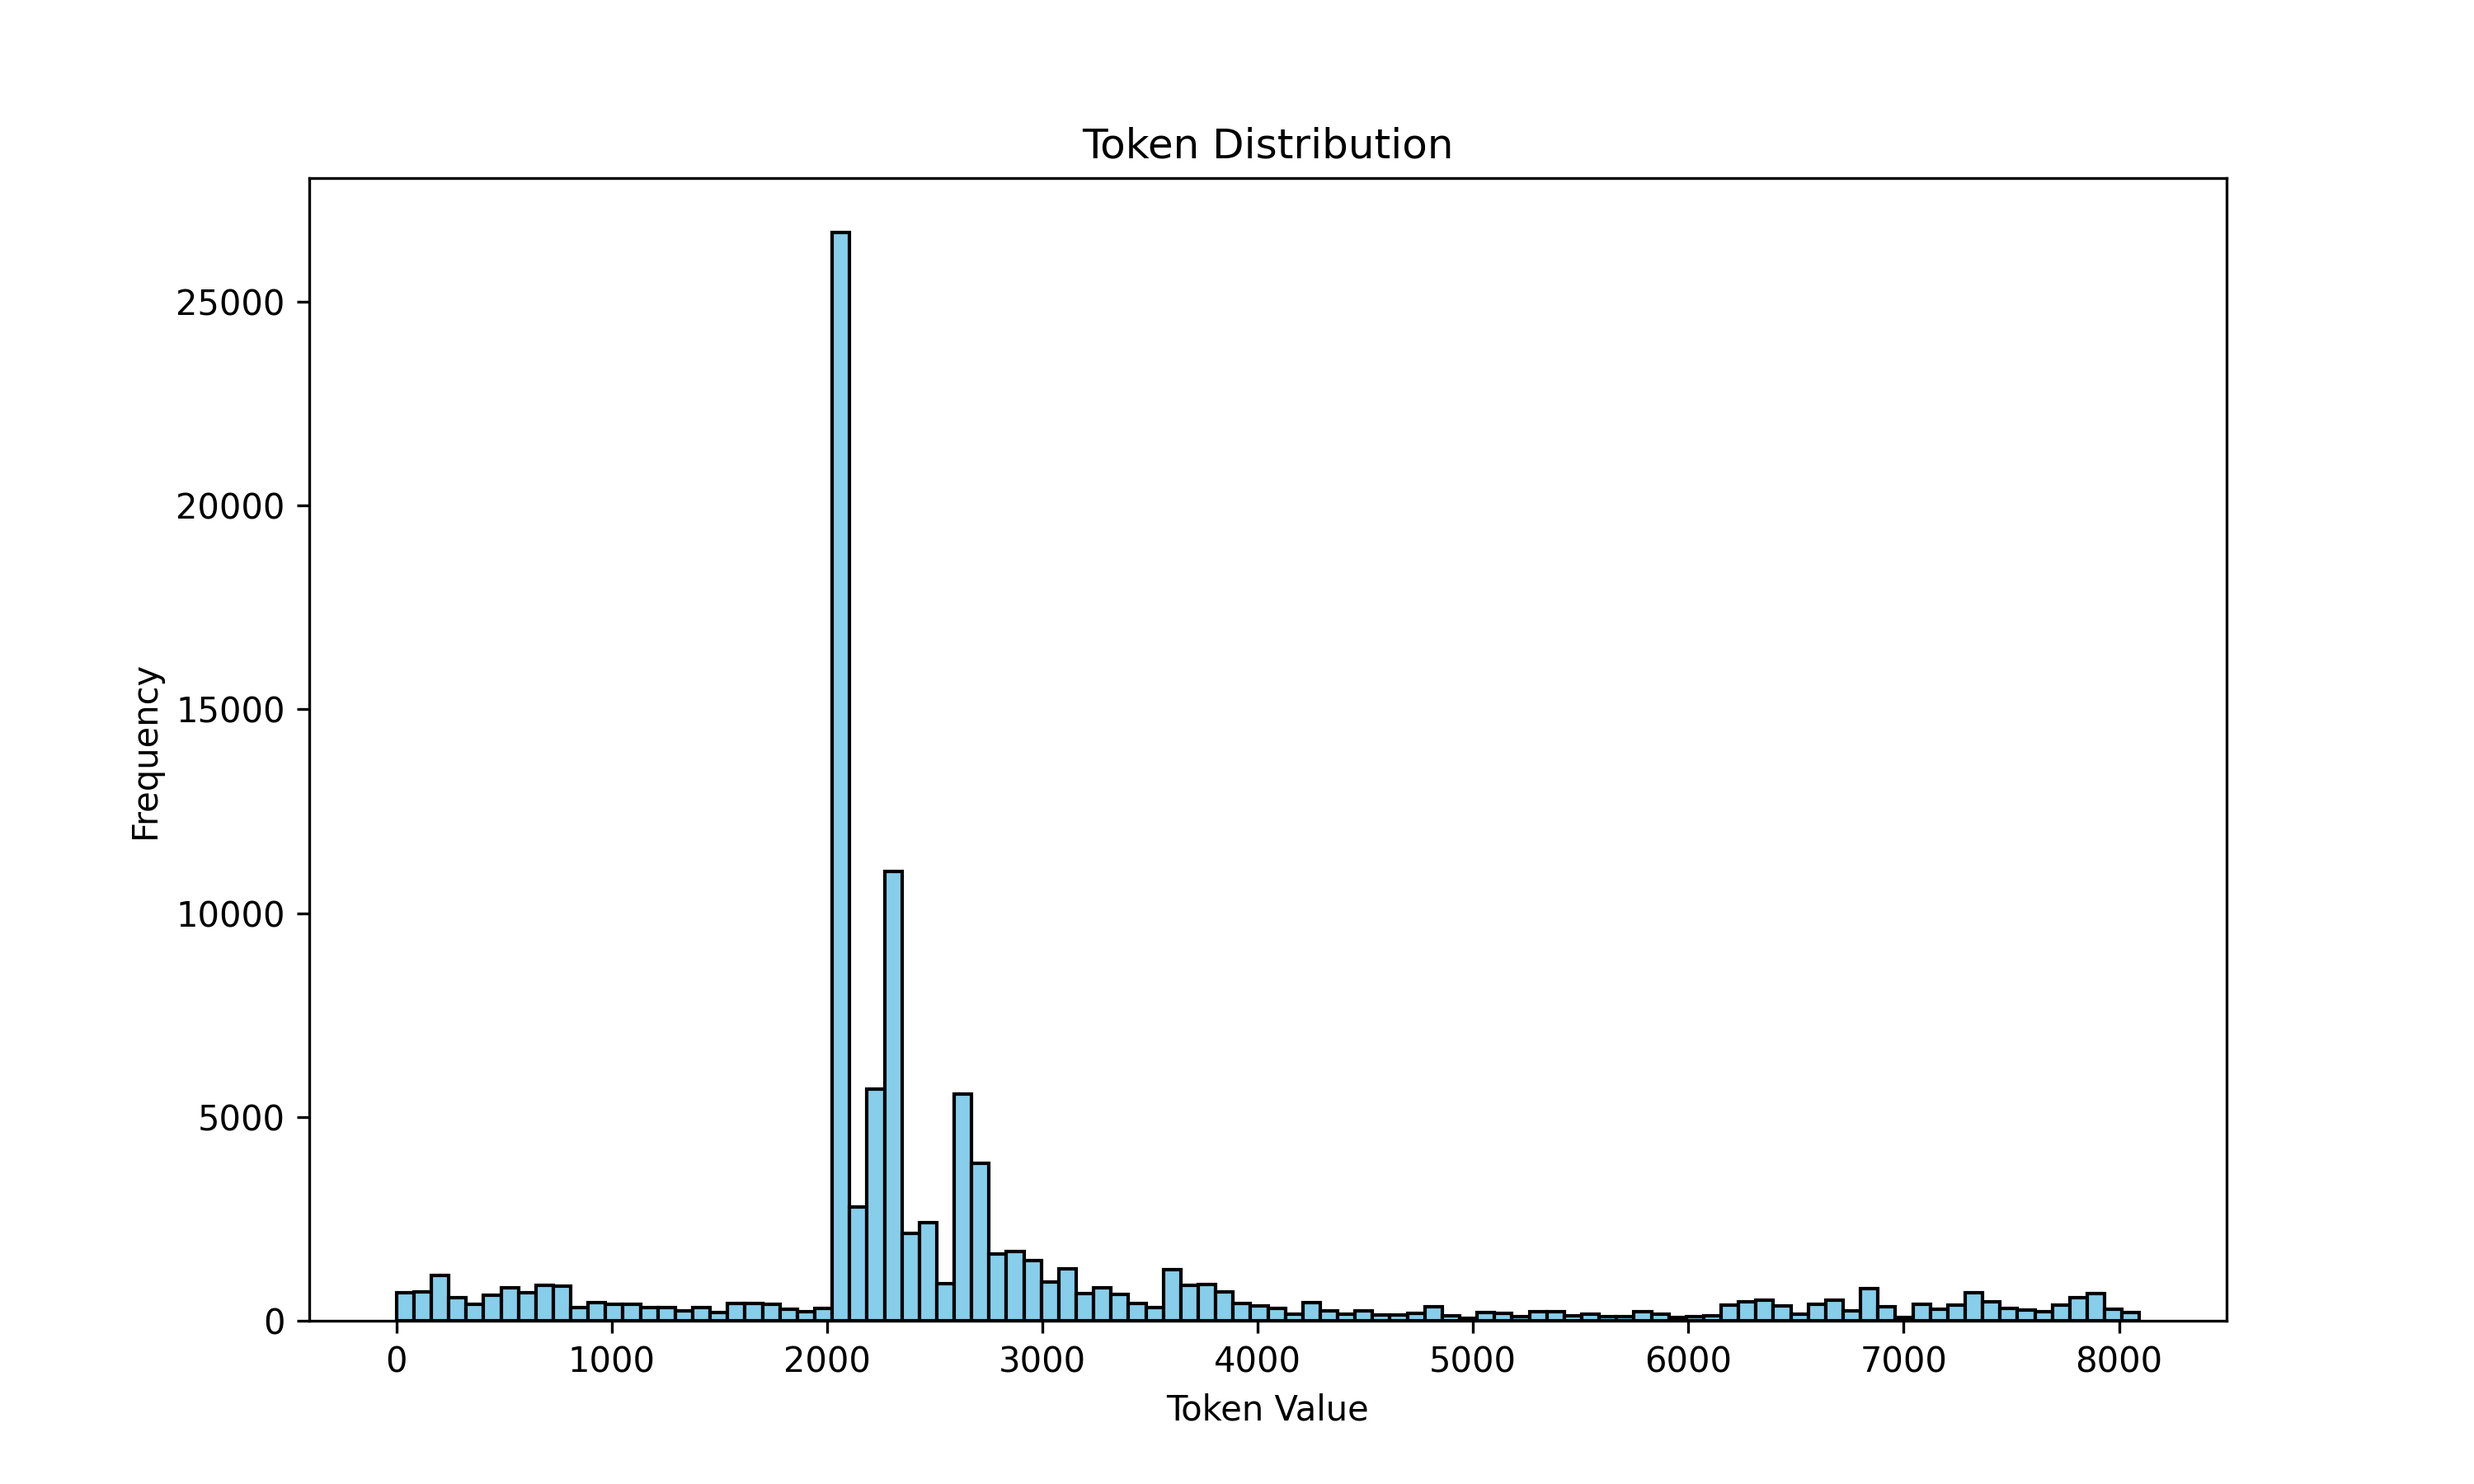
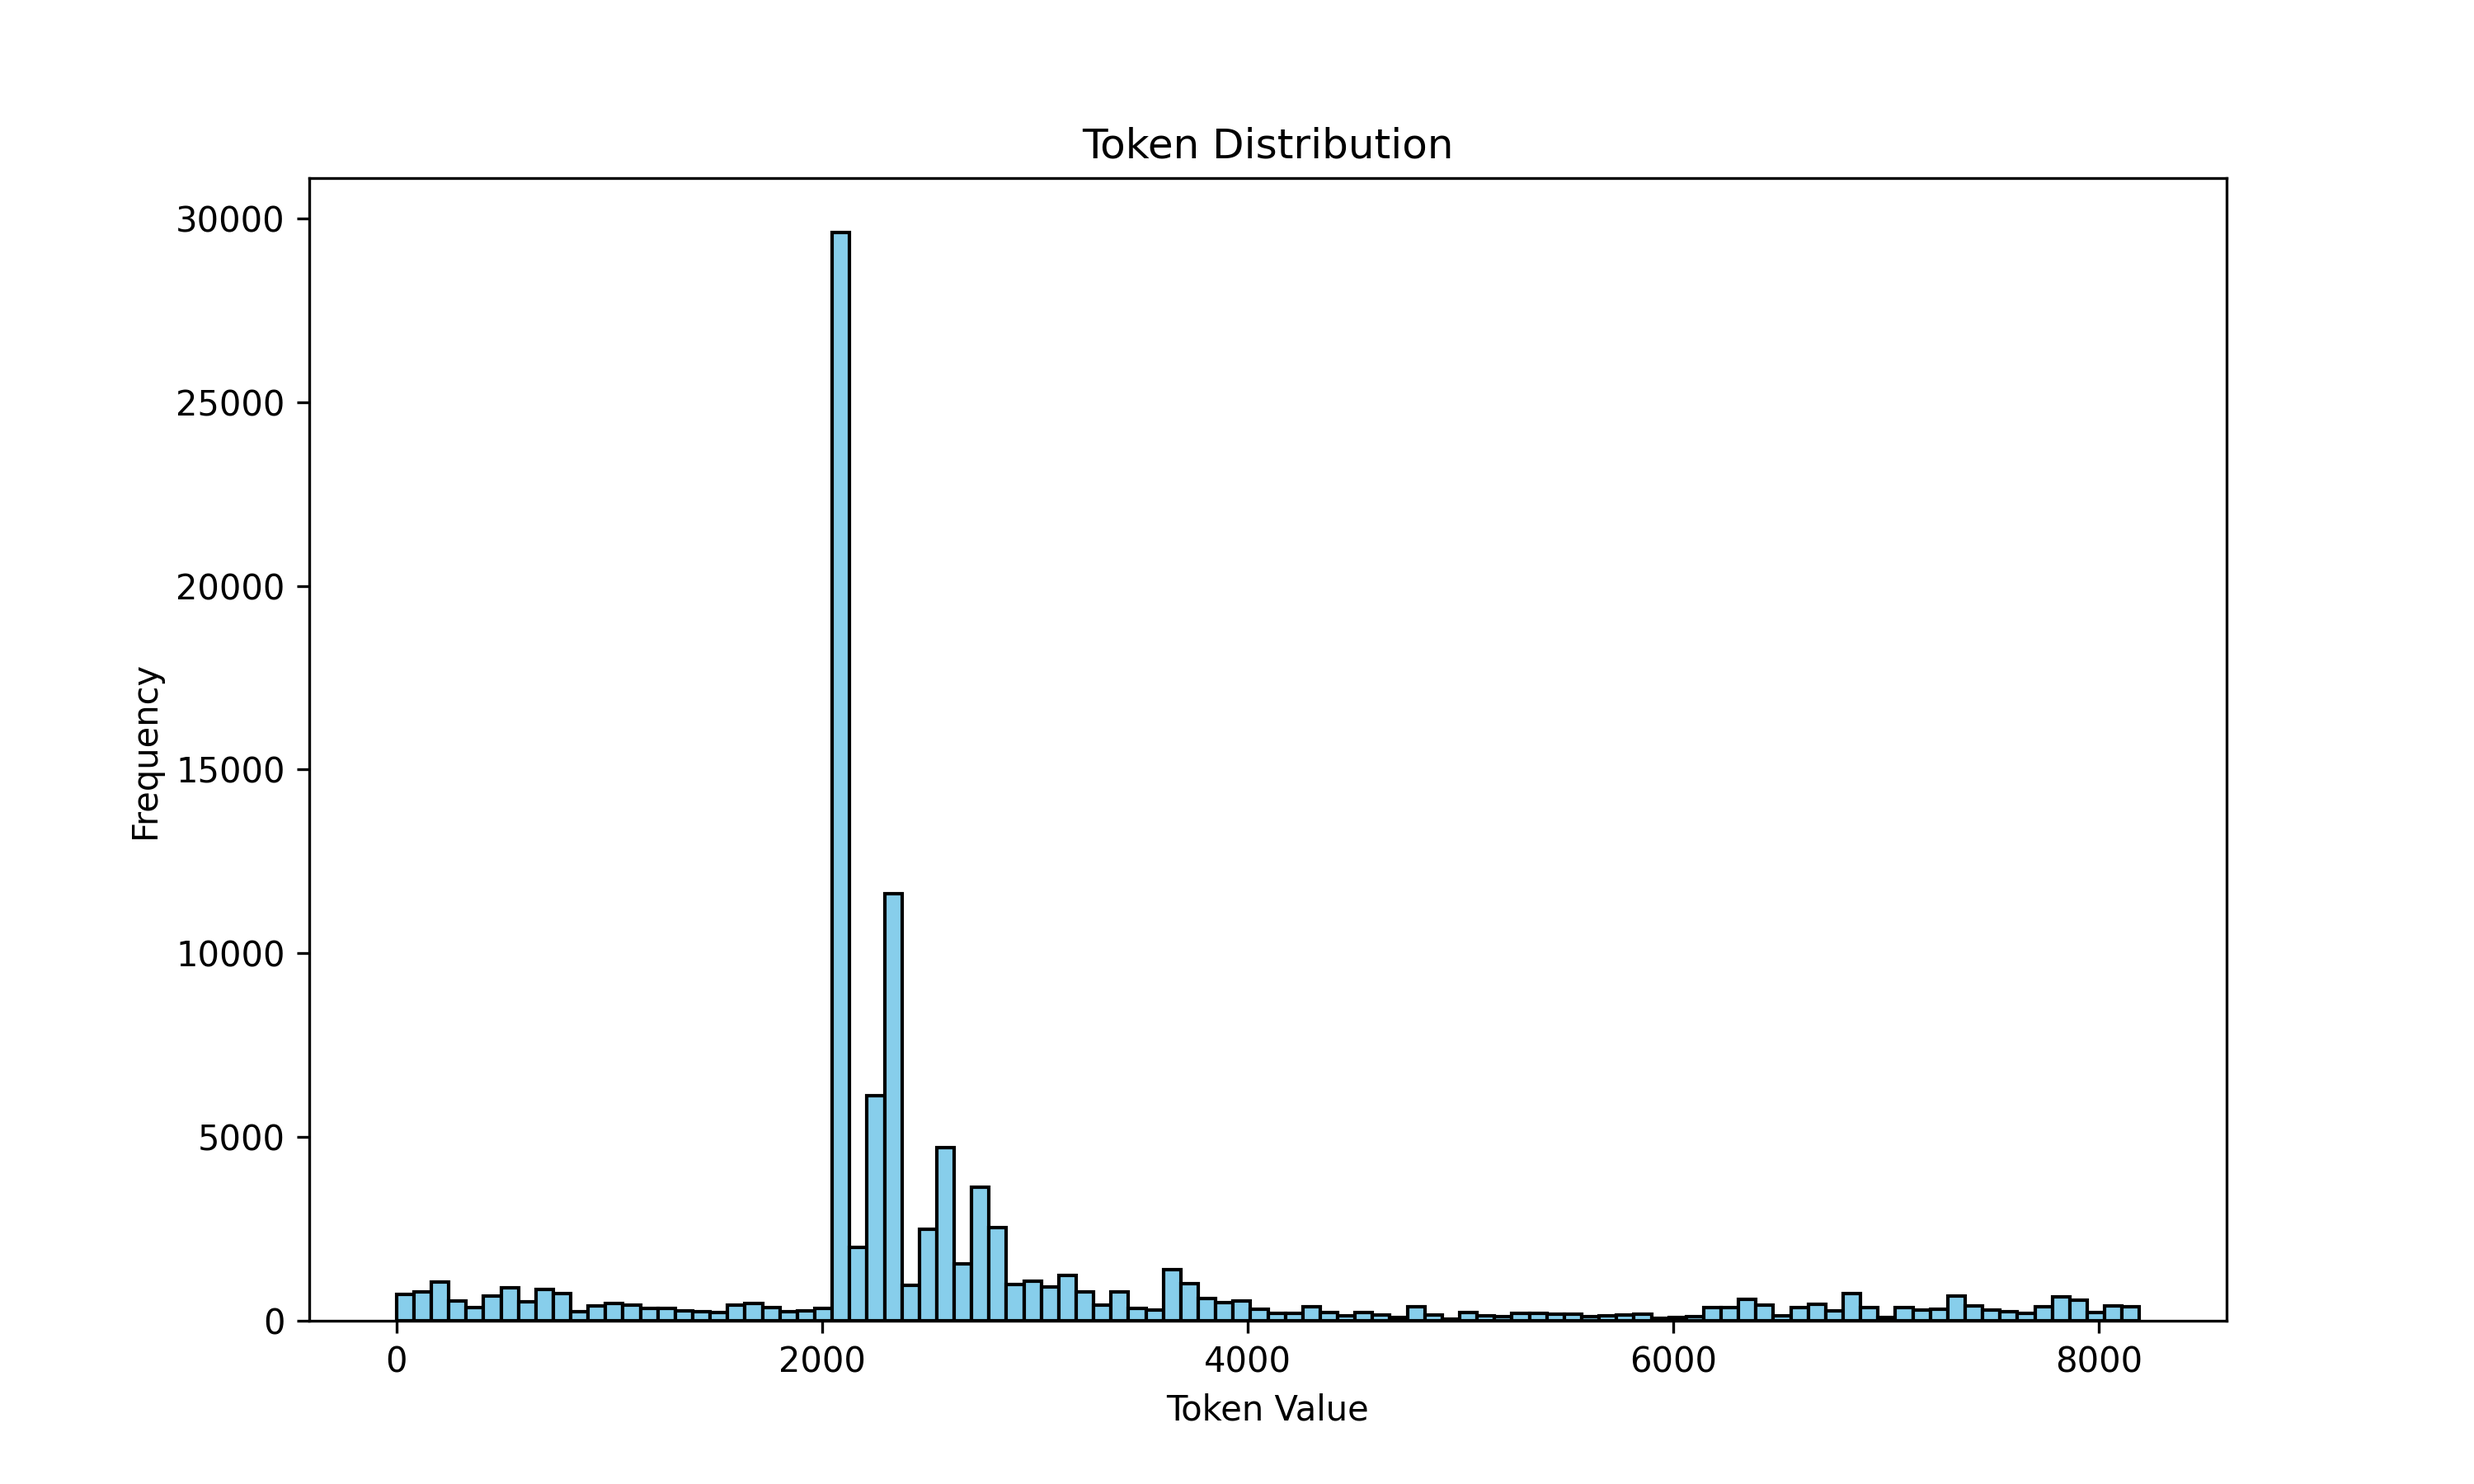
8096 -> 8192

diff --git a/draw_vq_distribution.py b/draw_vq_distribution.py
@@ -86,7 +86,7 @@ if __name__ == '__main__':
     
     # 绘制 token 分布的直方图
     plt.figure(figsize=(10, 6))
-    plt.hist(tokens, bins=100, range=(0, 8095), color='skyblue', edgecolor='black')
+    plt.hist(tokens, bins=100, range=(0, 8192), color='skyblue', edgecolor='black')
     plt.title('Token Distribution')
     plt.xlabel('Token Value')
     plt.ylabel('Frequency')
